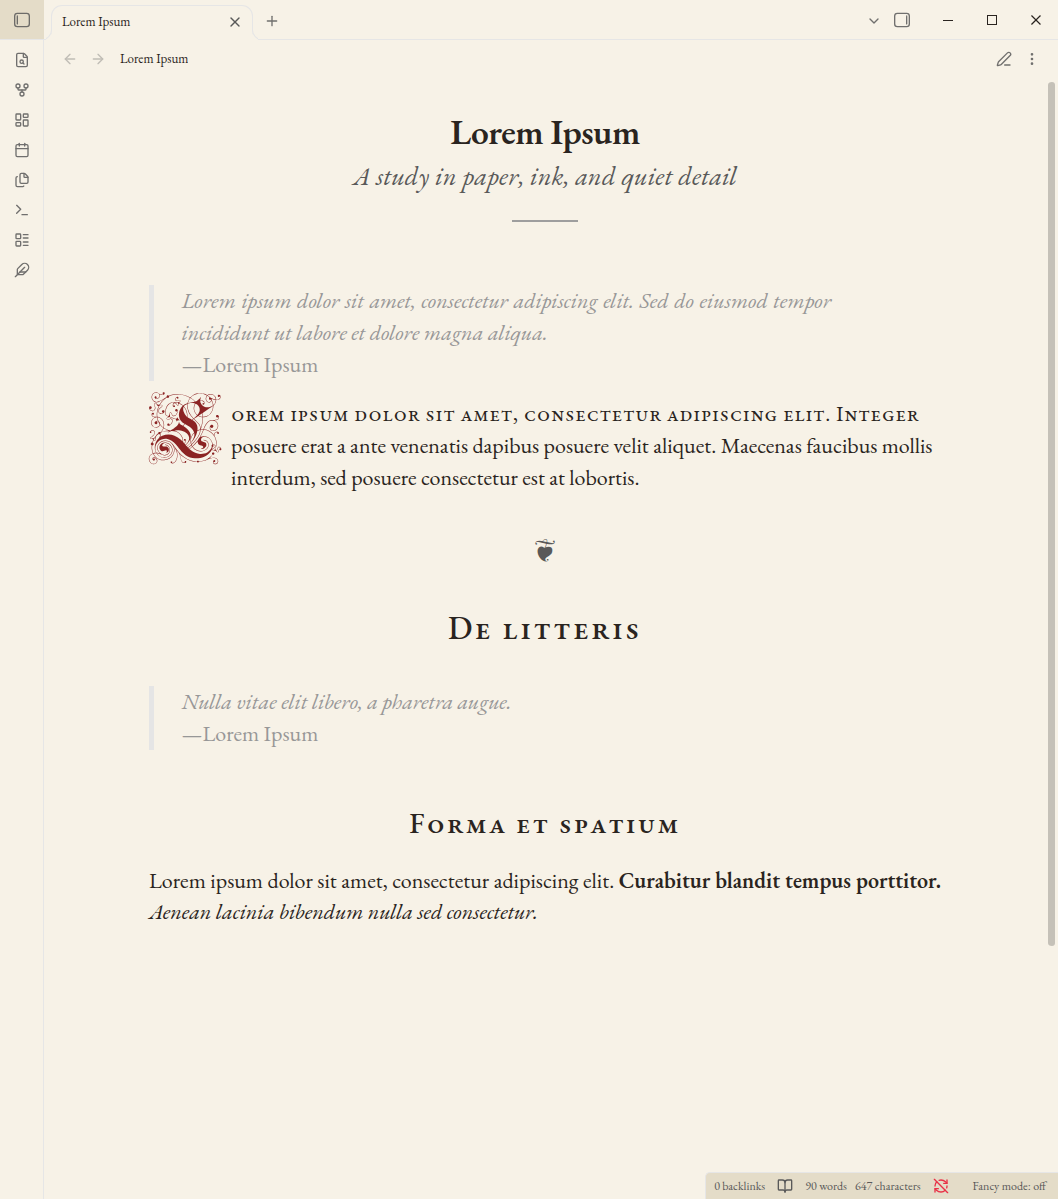
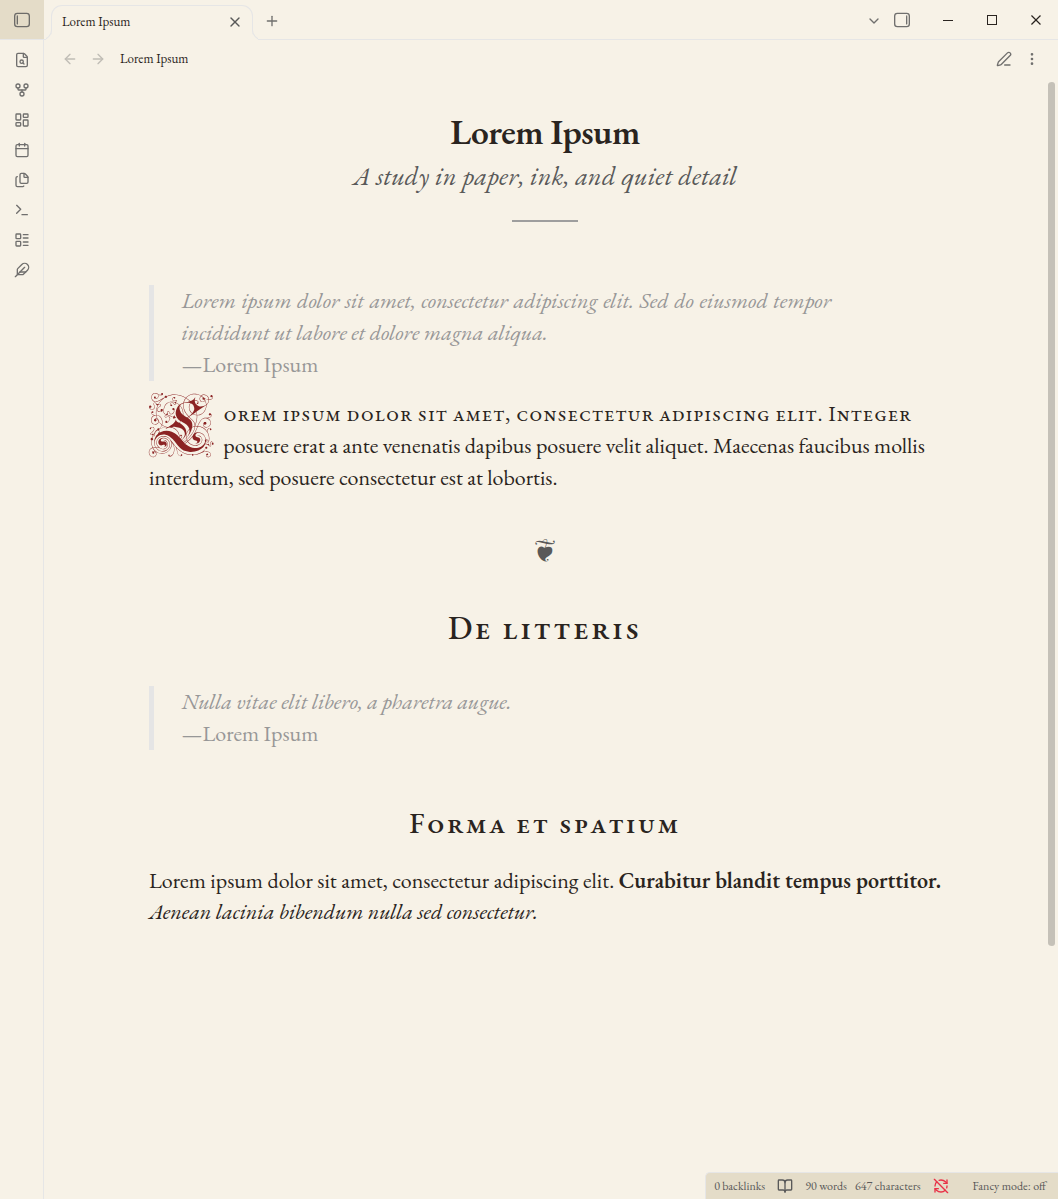
Drop caps two lines deep: the third line runs under the initial (site + Scriptorium)
The user asked for the third line to be unindented and slip under the drop cap, in both the articles and the
package. The Yinit initial is now 3em (64 px at 22 px text) with a -0.15em bottom margin, so the text wraps
two lines and the third starts at the margin, 3-6 px below the ornament. Package rebuilt (both modes),
installers re-pinned, light-mode Obsidian screenshots retaken.

Claude-Session: https://claude.ai/code/session_01CWVWPAKXQQg88PK2he7g2B

Changed region(s): [[0.1248, 0.3086, 0.8733, 0.432]]

diff --git a/assets/scriptorium-plugin/manuscript.css b/assets/scriptorium-plugin/manuscript.css
@@ -235,10 +235,10 @@ body:where(:not(.scriptorium-fancy)).theme-dark {
 .markdown-rendered :is(.mod-header, .el-h1, .el-h2, .el-h6) + .el-blockquote + .el-p > p::first-letter {
   float: left;
   font-family: "Scriptorium Yinit", var(--manuscript-display);
-  font-size: 3.36em;          /* a square initial about three lines tall */
+  font-size: 3em;             /* a square initial two lines deep; the third line runs under it */
   line-height: 1;
   text-transform: uppercase;  /* Yinit has capitals only */
-  margin: 0 0.135em 0 0;
+  margin: 0 0.15em -0.15em 0; /* the negative bottom margin ends the wrap after the second line */
   padding: 0;
   color: var(--manuscript-accent);
 }
@@ -489,10 +489,10 @@ body:where(.scriptorium-fancy).theme-dark {
 .markdown-rendered :is(.mod-header, .el-h1, .el-h2, .el-h6) + .el-blockquote + .el-p > p::first-letter {
   float: left;
   font-family: "Scriptorium Yinit", var(--manuscript-display);
-  font-size: 3.36em;          /* a square initial about three lines tall */
+  font-size: 3em;             /* a square initial two lines deep; the third line runs under it */
   line-height: 1;
   text-transform: uppercase;  /* Yinit has capitals only */
-  margin: 0 0.135em 0 0;
+  margin: 0 0.15em -0.15em 0; /* the negative bottom margin ends the wrap after the second line */
   padding: 0;
   color: var(--manuscript-accent);
 }

diff --git a/assets/scriptorium-site.css b/assets/scriptorium-site.css
@@ -178,10 +178,10 @@ h1, h2, h3, h4, h5, h6 { color: var(--ink); font-family: var(--text); font-weigh
 .post :is(h1, h2):not(.post-title) + blockquote + p::first-letter {
   float: left;
   font-family: var(--initials, var(--display));
-  font-size: 3.36em;          /* a 72 px square at 22 px text, spanning three lines */
+  font-size: 3em;             /* a 64 px square at 22 px text: two lines deep, the third line runs under it */
   line-height: 1;
   text-transform: uppercase;  /* Yinit has capitals only */
-  margin: 0 0.135em 0 0;
+  margin: 0 0.15em -0.15em 0; /* the negative bottom margin ends the wrap after the second line */
   padding: 0;
   color: var(--accent);
 }
